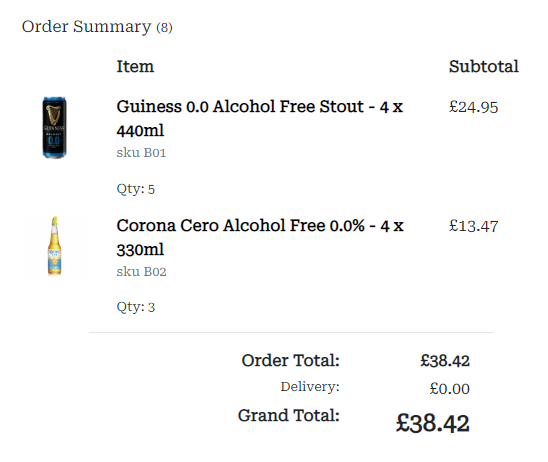
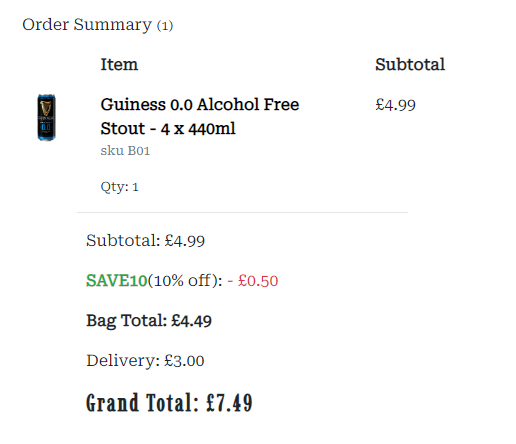
Added coupons to bag section in readme

diff --git a/README.md b/README.md
@@ -587,6 +587,13 @@ These phrases can also be used in the metadata at the head of the page.
 
     ![Bag-Qty-Totals](assets/images/bag-totals.png)
 
+- #### Coupons
+    - Underneath the subtotals is an input box where users can enter a coupon code.
+    - If the coupon code entered is valid, a success toast message will pop and a summary of the coupon added, and the discount given will appear in the summary of the costs.
+    - If the coupon code entered is invalid, an error toast message will pop, and the totals will not change.
+
+    ![Bag-Coupons](assets/images/bag-coupons.png)
+
 [Back to top ⇧](#dry-drops)
 
 ### Checkout
